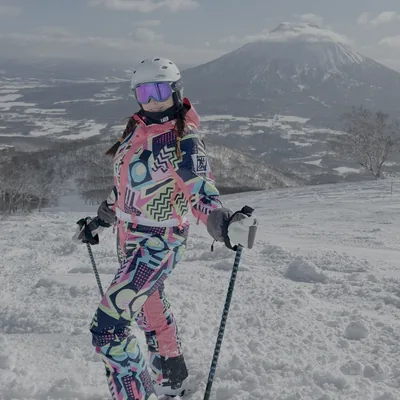
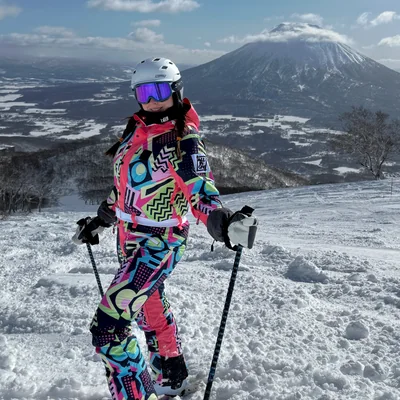
photos

diff --git a/src/pages/HomePage.tsx b/src/pages/HomePage.tsx
@@ -3,7 +3,6 @@ import { CvPage } from "../components/cv/CvPage";
 import { Jackalope } from "../components/cv/Jackalope";
 import { Rule, SectionHeading, MediaSlot, WorkEntry } from "../components/cv/CvPrimitives";
 import { Interrogate } from "../components/query/Interrogate";
-import { LensPrompt } from "../components/query/LensPrompt";
 import { useLens, type LensOption } from "../lib/useLens";
 import { NavCard } from "../components/cv/NavCard";
 
@@ -174,14 +173,13 @@ const WORK: Work[] = [
 ];
 
 export const HomePage = () => {
-  const { lens, order, set, clear } = useLens();
+  const { lens, order } = useLens();
   const shown = order
     .map((id) => WORK.find((w) => w.id === id))
     .filter((w): w is Work => Boolean(w));
 
   return (
     <CvPage sidebar={<Sidebar lens={lens} />}>
-      <LensPrompt lens={lens} onSet={set} onClear={clear} className="max-w-[var(--measure-prose)]" />
 
       <SectionHeading>SELECTED WORK</SectionHeading>
       <Rule className="mb-6" />
